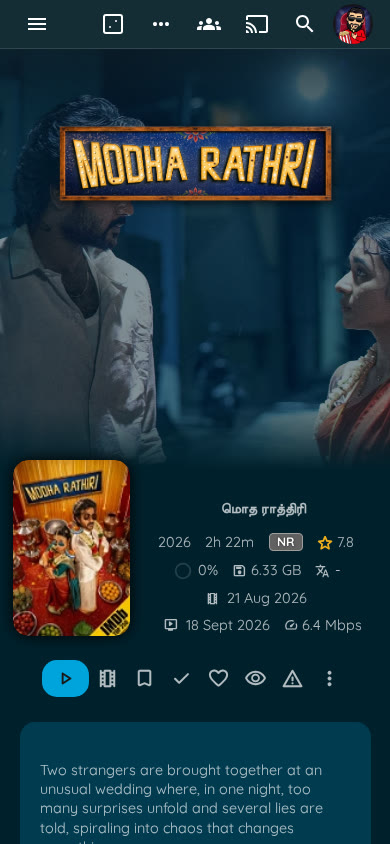
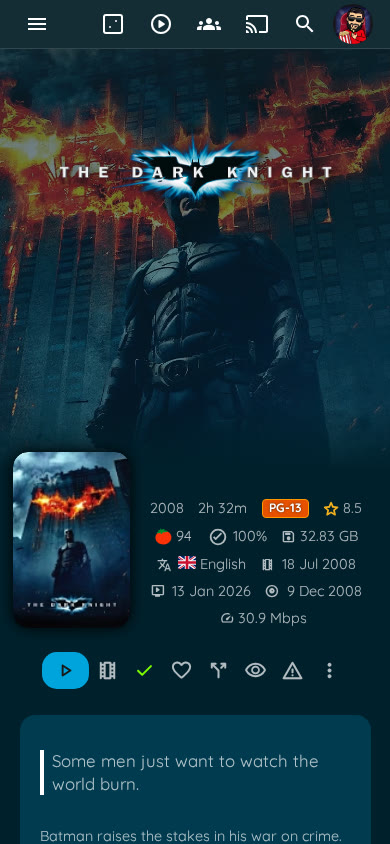
README: tidy gallery layout, palette table with new swatches for every palette, album and queue screenshots; swap the movie in the screenshots

diff --git a/README.md b/README.md
@@ -40,30 +40,22 @@ Login page backgrounds from [@ksushlapush](https://unsplash.com/@ksushlapush)
 
 ## 🖼 Gallery
 
-<table align="center">
+<table>
   <tr>
-    <th style="text-align:center">Home<sup><a href="https://github.com/IAmParadox27/jellyfin-plugin-media-bar/" target="_blank" style="text-decoration: none;">**</a></sup></th>
-    <th style="text-align:center">Library, A-Z picker and badges</th>
+    <td width="50%" align="center"><img src="screenshots/overview-home.jpg" width="100%"/><br/><sub>Home, with the <a href="https://github.com/IAmParadox27/jellyfin-plugin-media-bar/">Media Bar</a> plugin</sub></td>
+    <td width="50%" align="center"><img src="screenshots/overview-library.jpg" width="100%"/><br/><sub>Library with the A-Z picker and badges</sub></td>
   </tr>
   <tr>
-    <td><img src="screenshots/overview-home.jpg" width="1000"/></td>
-    <td><img src="screenshots/overview-library.jpg" width="1000"/></td>
+    <td width="50%" align="center"><img src="screenshots/overview-movie.jpg" width="100%"/><br/><sub>Movie</sub></td>
+    <td width="50%" align="center"><img src="screenshots/overview-series.jpg" width="100%"/><br/><sub>Series</sub></td>
   </tr>
   <tr>
-    <th style="text-align:center">Movie</th>
-    <th style="text-align:center">Series</th>
+    <td width="50%" align="center"><img src="screenshots/overview-playlist.jpg" width="100%"/><br/><sub>Playlist</sub></td>
+    <td width="50%" align="center"><img src="screenshots/overview-album.jpg" width="100%"/><br/><sub>Album</sub></td>
   </tr>
   <tr>
-    <td><img src="screenshots/overview-movie.jpg" width="1000"/></td>
-    <td><img src="screenshots/overview-series.jpg" width="1000"/></td>
-  </tr>
-  <tr>
-    <th style="text-align:center">Playlist</th>
-    <th style="text-align:center">Settings with the floating Save button</th>
-  </tr>
-  <tr>
-    <td><img src="screenshots/overview-playlist.jpg" width="1000"/></td>
-    <td><img src="screenshots/floating-save.gif" width="1000"/></td>
+    <td width="50%" align="center"><img src="screenshots/overview-queue.jpg" width="100%"/><br/><sub>Now playing / queue</sub></td>
+    <td width="50%" align="center"><img src="screenshots/floating-save.gif" width="100%"/><br/><sub>Settings with the floating Save button</sub></td>
   </tr>
 </table>
 
@@ -71,10 +63,12 @@ Login page backgrounds from [@ksushlapush](https://unsplash.com/@ksushlapush)
   <img src="screenshots/mobile-home.jpg" width="24%"/>
   <img src="screenshots/mobile-movie.jpg" width="24%"/>
   <img src="screenshots/mobile-library.jpg" width="24%"/>
+  <br/><sub>On a phone</sub>
 </p>
 
 <p align="center">
   <img src="screenshots/library-hover.gif" alt="Hover states: navigation, cards and the A-Z picker" width="80%"/>
+  <br/><sub>Hover states: navigation, cards and the A-Z picker</sub>
 </p>
 
 ## 📑 Table of Contents
@@ -322,123 +316,46 @@ Streamberry Logo (inspired by Black Mirror) instead of Jellyfish Logo. Included 
 ---
 ## 🎨 Colors
 
-<img src="./colors/swatches/banana.png" alt="banana" width="40%"/>
+Pick a palette and import it **after** `theme.css`. Jelly Blue is built into `theme.css`, so it needs no extra import.
 
 ``` css
-@import url("https://cdn.jsdelivr.net/gh/n00bcodr/Jellyfish/colors/banana.css");
+@import url("https://cdn.jsdelivr.net/gh/n00bcodr/Jellyfish/colors/<name>.css");
 ```
 
-<p align="center">
-----
-</p>
+<table>
+  <tr>
+    <td width="33%" align="center"><img src="colors/swatches/aurora.png" alt="Aurora" width="100%"/><br/><code>aurora.css</code></td>
+    <td width="33%" align="center"><img src="colors/swatches/banana.png" alt="Banana" width="100%"/><br/><code>banana.css</code></td>
+    <td width="33%" align="center"><img src="colors/swatches/coal.png" alt="Coal" width="100%"/><br/><code>coal.css</code></td>
+  </tr>
+  <tr>
+    <td width="33%" align="center"><img src="colors/swatches/coral.png" alt="Coral" width="100%"/><br/><code>coral.css</code></td>
+    <td width="33%" align="center"><img src="colors/swatches/forest.png" alt="Forest" width="100%"/><br/><code>forest.css</code></td>
+    <td width="33%" align="center"><img src="colors/swatches/grass.png" alt="Grass" width="100%"/><br/><code>grass.css</code></td>
+  </tr>
+  <tr>
+    <td width="33%" align="center"><img src="colors/swatches/jellyblue.png" alt="Jelly Blue" width="100%"/><br/><code>jellyblue.css</code></td>
+    <td width="33%" align="center"><img src="colors/swatches/jellyflix.png" alt="Jellyflix" width="100%"/><br/><code>jellyflix.css</code></td>
+    <td width="33%" align="center"><img src="colors/swatches/jellypurple.png" alt="Jelly Purple" width="100%"/><br/><code>jellypurple.css</code></td>
+  </tr>
+  <tr>
+    <td width="33%" align="center"><img src="colors/swatches/lavender.png" alt="Lavender" width="100%"/><br/><code>lavender.css</code></td>
+    <td width="33%" align="center"><img src="colors/swatches/liquidglass.png" alt="Liquid Glass" width="100%"/><br/><code>liquidglass.css</code></td>
+    <td width="33%" align="center"><img src="colors/swatches/midnight.png" alt="Midnight" width="100%"/><br/><code>midnight.css</code></td>
+  </tr>
+  <tr>
+    <td width="33%" align="center"><img src="colors/swatches/mint.png" alt="Mint" width="100%"/><br/><code>mint.css</code></td>
+    <td width="33%" align="center"><img src="colors/swatches/ocean.png" alt="Ocean" width="100%"/><br/><code>ocean.css</code></td>
+    <td width="33%" align="center"><img src="colors/swatches/peach.png" alt="Peach" width="100%"/><br/><code>peach.css</code></td>
+  </tr>
+  <tr>
+    <td width="33%" align="center"><img src="colors/swatches/watermelon.png" alt="Watermelon" width="100%"/><br/><code>watermelon.css</code></td>
+    <td></td>
+    <td></td>
+  </tr>
+</table>
 
-<img src="./colors/swatches/coal.png" alt="coal" width="40%"/>
-
-``` css
-@import url("https://cdn.jsdelivr.net/gh/n00bcodr/Jellyfish/colors/coal.css");
-```
-<p align="center">
-----
-</p>
-
-<img src="./colors/swatches/coral.png" alt="coral" width="40%"/>
-
-``` css
-@import url("https://cdn.jsdelivr.net/gh/n00bcodr/Jellyfish/colors/coral.css");
-```
-<p align="center">
-----
-</p>
-
-<img src="./colors/swatches/grass.png" alt="grass" width="40%"/>
-
-``` css
-@import url("https://cdn.jsdelivr.net/gh/n00bcodr/Jellyfish/colors/grass.css");
-```
-<p align="center">
-----
-</p>
-
-<img src="./colors/swatches/jellyblue.png" alt="jellyblue" width="40%"/>
-
-``` css
-@import url("https://cdn.jsdelivr.net/gh/n00bcodr/Jellyfish/colors/jellyblue.css");
-```
-<p align="center">
-----
-</p>
-
-<img src="./colors/swatches/jellyflix.png" alt="jellyflix" width="40%"/>
-
-``` css
-@import url("https://cdn.jsdelivr.net/gh/n00bcodr/Jellyfish/colors/jellyflix.css");
-```
-<p align="center">
-----
-</p>
-
-<img src="./colors/swatches/liquidglass.png" alt="liquid glass" width="40%"/>
-
-**Liquid Glass** — an Apple-"Liquid Glass"-inspired palette: neutral graphite, a pearl-white accent and a soft iridescent glow, so the color comes from your artwork rather than a blue tint (change `--primary-r/g/b` in the file for a tinted variant). Besides the usual colors it makes the header, drawer, menus, dialogs, A-Z picker and buttons frosted, translucent glass with a bright edge highlight. Needs a browser with `backdrop-filter` (every current Chrome/Edge/Safari/Firefox); older engines fall back to solid panels.
-
-``` css
-@import url("https://cdn.jsdelivr.net/gh/n00bcodr/Jellyfish/colors/liquidglass.css");
-```
-<p align="center">
-----
-</p>
-
-<img src="./colors/swatches/lavender.png" alt="lavender" width="40%"/>
-
-``` css
-@import url("https://cdn.jsdelivr.net/gh/n00bcodr/Jellyfish/colors/lavender.css");
-```
-<p align="center">
-----
-</p>
-
-<img src="./colors/swatches/mint.png" alt="mint" width="40%"/>
-
-``` css
-@import url("https://cdn.jsdelivr.net/gh/n00bcodr/Jellyfish/colors/mint.css");
-```
-<p align="center">
-----
-</p>
-
-<img src="./colors/swatches/ocean.png" alt="ocean" width="40%"/>
-
-``` css
-@import url("https://cdn.jsdelivr.net/gh/n00bcodr/Jellyfish/colors/ocean.css");
-```
-<p align="center">
-----
-</p>
-
-<img src="./colors/swatches/peach.png" alt="peach" width="40%"/>
-
-``` css
-@import url("https://cdn.jsdelivr.net/gh/n00bcodr/Jellyfish/colors/peach.css");
-```
-<p align="center">
-----
-</p>
-
-<img src="./colors/swatches/watermelon.png" alt="watermelon" width="40%"/>
-
-``` css
-@import url("https://cdn.jsdelivr.net/gh/n00bcodr/Jellyfish/colors/watermelon.css");
-```
-
-<p align="center">
-----
-</p>
-
-**More palettes** (no swatch image yet): `aurora`, `forest`, `jellypurple`, `midnight`
-
-``` css
-@import url("https://cdn.jsdelivr.net/gh/n00bcodr/Jellyfish/colors/aurora.css");
-```
+**Liquid Glass** is an Apple-"Liquid Glass"-inspired palette: neutral graphite, a pearl-white accent and a soft iridescent glow, so the color comes from your artwork rather than a blue tint (change `--primary-r/g/b` in the file for a tinted variant). Besides the usual colors it makes the header, drawer, menus, dialogs, A-Z picker and buttons frosted, translucent glass with a bright edge highlight. It needs a browser with `backdrop-filter` (every current Chrome, Edge, Safari and Firefox); older engines fall back to solid panels.
 
 ### Making your own palette
 
